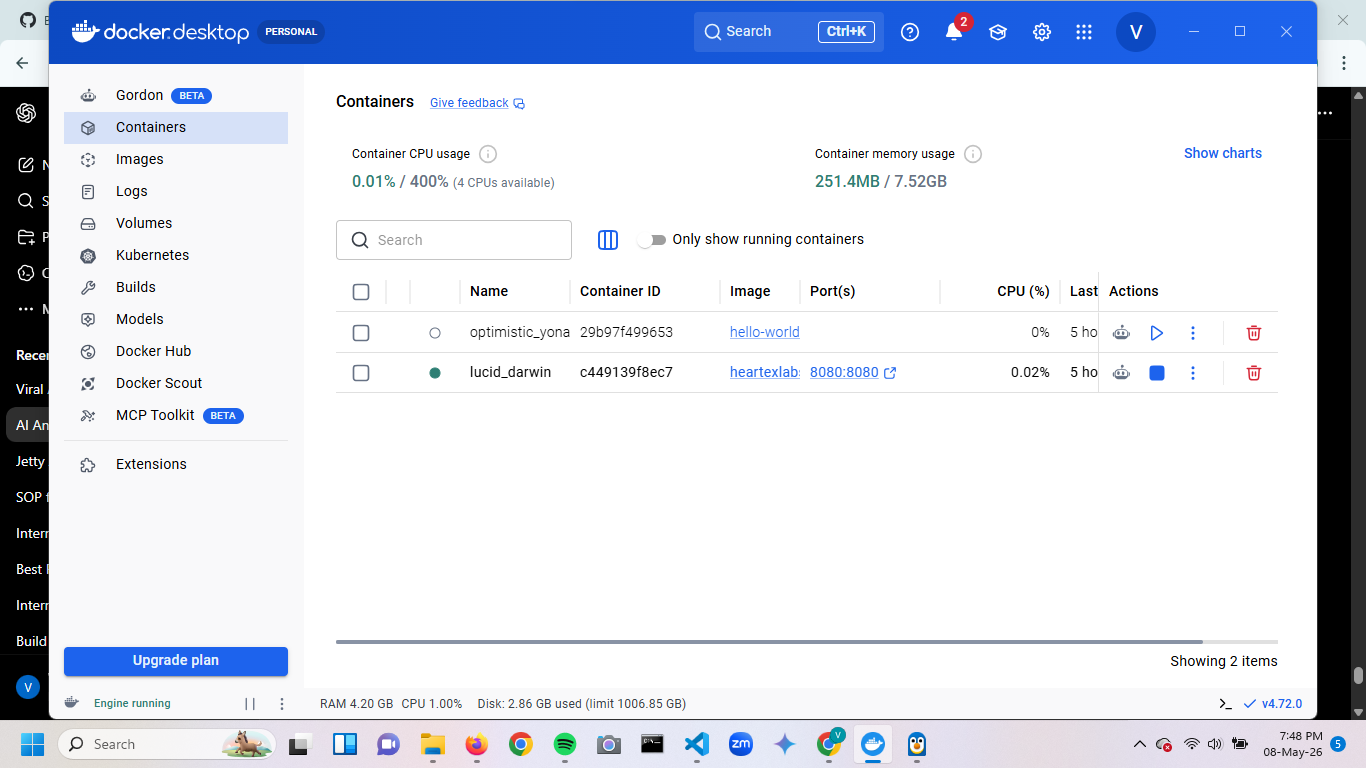
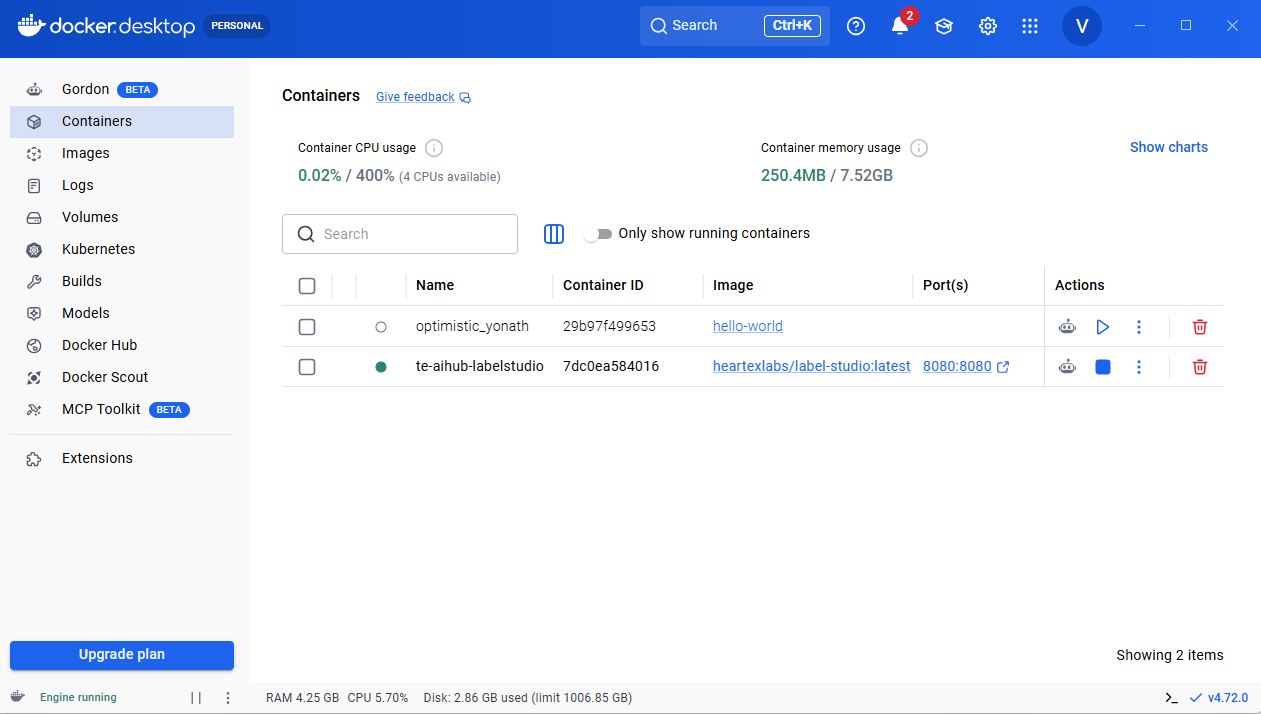
Initial clean assignment submission

diff --git a/README.md b/README.md
@@ -1,101 +1,141 @@
 # TE Connectivity AI Hub Intern Assignment
+
 ## Docker + Label Studio Object Detection Workflow
 
-## Project Summary
+---
 
-This project demonstrates a complete local object-detection annotation workflow using Docker and Label Studio. The workflow was created using the BCCD blood cell dataset and focuses on annotating three object classes:
+# Project Summary
 
-- RBC (Red Blood Cells)
-- WBC (White Blood Cells)
-- Platelets
+This project demonstrates a complete local object-detection annotation workflow using Docker and Label Studio. The workflow was created using the BCCD Blood Cell Count and Detection dataset and focuses on annotating three object classes:
+
+* RBC (Red Blood Cells)
+* WBC (White Blood Cells)
+* Platelets
 
 The assignment includes:
-- Docker-based Label Studio setup
-- Object detection project configuration
-- Bounding-box annotation workflow
-- Annotation export generation
-- Documentation and reproducibility setup
 
-## Dataset Used
+* Docker-based Label Studio setup
+* Object detection project configuration
+* Bounding-box annotation workflow
+* Annotation export generation
+* Documentation and reproducibility setup
+
+The final exported annotations can be used as structured training data for future computer vision and machine learning workflows.
+
+---
+
+# Dataset Used
 
 Dataset: BCCD Blood Cell Count and Detection Dataset
 
-Sources:
-- https://github.com/Shenggan/BCCD_Dataset
-- https://public.roboflow.com/object-detection/bccd
+## Sources
+
+* https://github.com/Shenggan/BCCD_Dataset
 
 10 sample images were selected from the dataset for this assignment.
 
+---
 
-## Repository Structure
+# Repository Structure
 
 ```text
-te-aihub-intern-assignment-yourname/
+te-aihub-intern-assignment-vritika-savukar/
 │
 ├── README.md
 ├── label_config.xml
 ├── docker_commands.md
 ├── docker-compose.yml
 ├── video_link.txt
+│
 ├── screenshots/
+│   ├── annotation.png
+│   ├── label_studio_dashboard.png
+│   ├── docker_dashboard.png
+│   ├── validate_exports_json.png
+│   ├── docker_running.png
+│   └── github_push.png
+│
 ├── exports/
+│   ├── label_studio_export_json.json
+│   ├── label_studio_export_coco.zip
+│   └── label_studio_export_yolo.zip
+│
 ├── samples/
-└── scripts/
-
-
+│   ├── image_01.jpg
+│   ├── image_02.jpg
+│   ├── image_03.jpg
+│   ├── image_04.jpg
+│   ├── image_05.jpg
+│   ├── image_06.jpg
+│   ├── image_07.jpg
+│   ├── image_08.jpg
+│   ├── image_09.jpg
+│   └── image_10.jpg
+│
+├── scripts/
+│   └── validate_export.py
+│
+└── selected_10_images_or_download_instructions.txt
+```
 
 ---
 
-# SECTION 4 — Docker Setup
+# Docker Setup
 
-````markdown
-## Docker Setup
+Install Docker Desktop from:
+
+https://docs.docker.com/desktop/setup/install/windows-install/
 
 Docker Desktop was used to run Label Studio locally.
 
-### Verify Docker
+## Verify Docker
 
 ```bash
 docker --version
+```
 
+## Run Label Studio
 
+```bash
 docker run -it -p 8080:8080 heartexlabs/label-studio:latest
+```
 
+## Open Label Studio
 
+Open in browser:
+
+```text
+http://localhost:8080
+```
 
 ---
 
-# SECTION 5 — Project Creation Steps
-
-```markdown
-## Label Studio Project Creation
+# Label Studio Project Creation
 
 1. Created a new Label Studio project named:
+
    `BCCD Annotation Assignment`
 
 2. Imported 10 selected BCCD images.
 
 3. Configured object-detection labels:
-   - RBC
-   - WBC
-   - Platelets
 
-4. Annotated 6 images using bounding boxes.
+   * RBC
+   * WBC
+   * Platelets
+
+4. Annotated all 10 imported images using bounding boxes.
 
 5. Exported annotations in Label Studio JSON format.
-```
 
 ---
 
-# SECTION 6 — Label Configuration
-
-````markdown
-## Label Configuration
+# Label Configuration
 
 ```xml
 <View>
   <Image name="image" value="$image"/>
-  
+
   <RectangleLabels name="label" toName="image">
     <Label value="RBC" background="red"/>
     <Label value="WBC" background="blue"/>
@@ -104,102 +144,156 @@ docker run -it -p 8080:8080 heartexlabs/label-studio:latest
 </View>
 ```
 
+---
 
+# Annotation Summary
 
-## Annotation Summary
+* Total imported images: 10
+* Total annotated images: 10
+* Annotation type: Bounding boxes
+* Export format: Label Studio JSON
+* Bonus export: COCO format and YOLO format
 
-- Total imported images: 10
-- Total annotated images: 6
-- Annotation type: Bounding boxes
-- Export format: Label Studio JSON
-- Bonus export: COCO format
+## Validation Script Output
 
+```text
+Total tasks: 10
+Annotated tasks: 10
 
+Label counts:
+  RBC: 135
+  Platelets: 22
+  WBC: 10
+```
 
-## Export Files
+---
+
+# Export Files
 
 Exported annotation files are located inside:
 
+```text
 exports/
+```
 
-Main export:
-- label_studio_export.json
+## Main Export
 
-Optional export:
-- COCO export ZIP and extracted files
+* `label_studio_export_json.json`
 
+## Optional Exports
 
-## Demo Video
+* `label_studio_export_coco.zip`
+* `label_studio_export_yolo.zip`
 
-Google Drive Video Link:
-(PASTE YOUR DRIVE LINK HERE)
+---
 
+# Screenshots
 
+The repository includes the following screenshots:
 
-## Issues Faced and Solutions
+* `screenshots/annotation.png`
+* `screenshots/label_studio_dashboard.png`
+* `screenshots/docker_dashboard.png`
+* `screenshots/validate_exports_json.png`
+* `screenshots/docker_running.png`
+* `screenshots/github_push.png`
 
-### Issue 1: Docker WSL2 Error
+---
+
+# Demo Video
+
+## Google Drive Video Link
+
+PASTE_YOUR_GOOGLE_DRIVE_LINK_HERE
+
+---
+
+# Issues Faced and Solutions
+
+## Issue 1: Docker WSL2 Error
+
 Initially Docker Desktop failed because WSL2 and virtualization support were not fully configured.
 
-Solution:
-- Enabled Virtual Machine Platform
-- Installed WSL2
-- Updated WSL kernel
-- Restarted the system
+## Solution
 
+* Enabled Virtual Machine Platform
+* Installed WSL2
+* Updated WSL kernel
+* Restarted the system
 
+---
 
-## AI Tools Used
+# AI Tools Used
 
-The following AI tools were used for guidance and troubleshooting:
-- ChatGPT
-- Official Docker documentation
-- Label Studio documentation
+The following AI tools and resources were used for guidance and troubleshooting:
 
-AI tools were used to:
-- troubleshoot Docker and WSL setup,
-- structure the repository,
-- improve documentation,
-- validate workflow setup,
-- understand annotation best practices.
+* ChatGPT
+* GitHub Copilot
+
+## AI Tools Were Used To
+
+1. Troubleshoot Docker and WSL setup
+2. Understand the workflow
+3. Improve documentation
+4. Validate workflow setup
+5. Understand annotation best practices
 
 All final work and annotations were reviewed and understood before submission.
 
+---
 
-## Annotation Quality Strategy for 2,500 Images
+# Annotation Quality Strategy for 2,500 Images
 
 If this workflow were scaled to 2,500 images with multiple business users, the following quality-control process would be implemented:
 
-- Standardized annotation guidelines
-- Training sessions for annotators
-- Review and approval workflow
-- Random quality audits
-- Inter-annotator consistency checks
-- Edge-case handling documentation
-- Automated validation scripts
-- Regular feedback cycles
-- Sampling-based QA review
+1. Clearly defined annotation guidelines with examples for RBCs, WBCs, Platelets, overlapping cells, partial objects, and unclear regions.
+2. Initial onboarding and training sessions for annotators to ensure consistent labeling practices.
+3. Multi-level review and approval workflows.
+4. Periodic sampling-based QA checks to identify inconsistencies or annotation drift.
+5. Inter-annotator consistency checks to compare labeling agreement across multiple annotators.
+6. Edge-case documentation for handling overlapping cells, tiny platelets, blurry objects, and partial cells at image boundaries.
+7. Automated validation scripts to verify annotation completeness, label distribution, and export integrity.
+8. Continuous feedback cycles and review meetings to improve annotation quality over time.
+9. Version-controlled exports and reproducible workflows for traceability and future model-training pipelines.
 
 This would help maintain annotation consistency and reduce labeling errors across the dataset.
 
+---
 
-## Edge Case Handling
+# Edge Case Handling
 
-| Scenario | Handling Strategy |
-|---|---|
-| Overlapping cells | Annotated separately |
-| Tiny platelets | Annotated only when clearly identifiable |
-| Partial cells at image borders | Annotated only for visible region |
-| Blurry or unclear objects | Skipped to avoid incorrect labels |
+| Scenario                       | Handling Strategy                        |
+| ------------------------------ | ---------------------------------------- |
+| Overlapping cells              | Annotated separately                     |
+| Tiny platelets                 | Annotated only when clearly identifiable |
+| Partial cells at image borders | Annotated only for visible region        |
+| Blurry or unclear objects      | Skipped to avoid incorrect labels        |
 
+---
 
-## Validation Script
+# Validation Script
 
-A helper validation script was added:
+A helper validation script was added.
 
-scripts/validate_export.py
+## Purpose
 
-Purpose:
-- verify export file exists,
-- confirm annotations are present,
-- validate exported task count.
+* Verify export file exists
+* Confirm annotations are present
+* Validate exported task count
+* Summarize label distribution
+
+## Run Using
+
+```bash
+python validate_export.py
+```
+
+---
+
+# Project Outcome
+
+This project demonstrates a reproducible annotation workflow for object detection using Docker and Label Studio.
+
+The generated annotations can be used as structured training data for future machine learning or computer vision models designed to detect and classify RBCs, WBCs, and Platelets in blood smear images.
+
+---